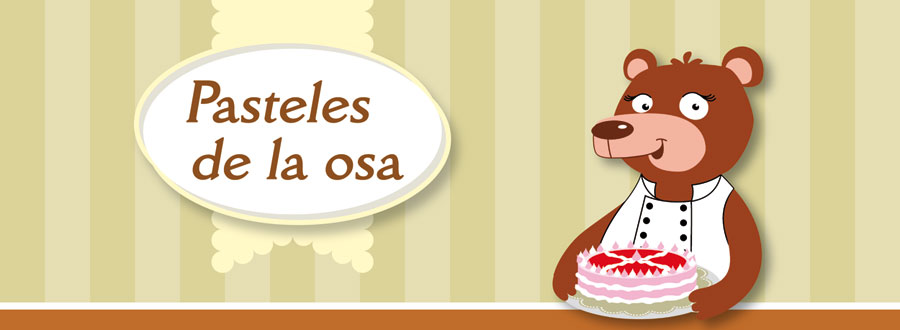
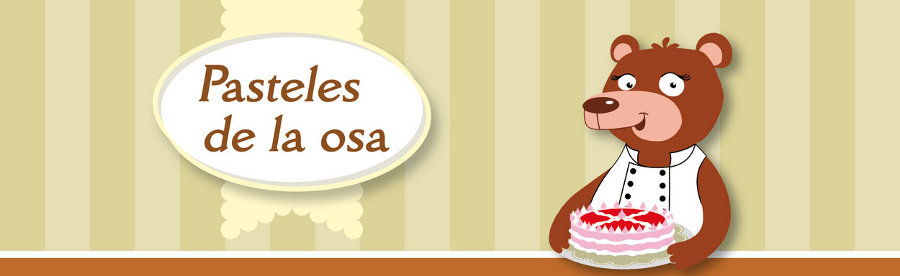
Css.

Changed region(s): [[0.0, 0.1159, 1.0, 1.0], [0.1244, 0.0, 0.5289, 0.8696], [0.2178, 0.0, 0.2489, 0.1449]]

diff --git a/index.html b/index.html
@@ -32,9 +32,9 @@
 <body>
   <div class="container-narrow">
 
-    <img src="header.jpg" width="900" height="330" alt="Pasteles de la Osa"/>
+    <img src="header.jpg" width="900" height="276" alt="Pasteles de la Osa"/>
 
-    <ul class="nav-pills" style="list-style-type: none; margin-top:15px; margin-bottom: 50px; color: Brown;" ng-controller="NavCtrl">
+    <ul class="nav-pills" style="list-style-type: none; margin-top:15px; margin-bottom: 50px; color: rgb(155, 65, 31);" ng-controller="NavCtrl">
       <li ng-class="navClass('home')"><a href="#/home"><i class="icon-home"></i> Home</a></li>
       <li ng-class="navClass('pasteleria')"><a href="#/pasteleria"><i class="icon-camera"></i> Pastelería</a></li>
       <li ng-class="navClass('mini_pasteleria')"><a href="#/mini_pasteleria"><i class="icon-camera"></i> Mini Pastelería</a></li>

diff --git a/css/app.css b/css/app.css
@@ -108,11 +108,11 @@ h1, h2 {
 }
 
 .nav-pills a {
-  color: Brown;
+  color: rgb(155, 65, 31);
 }
 
 .nav-pills > .active > a, .nav-pills > .active > a:hover {
-  background-color: Brown;
+  background-color: rgb(155, 65, 31);
 }
 
 .btn-brown {
